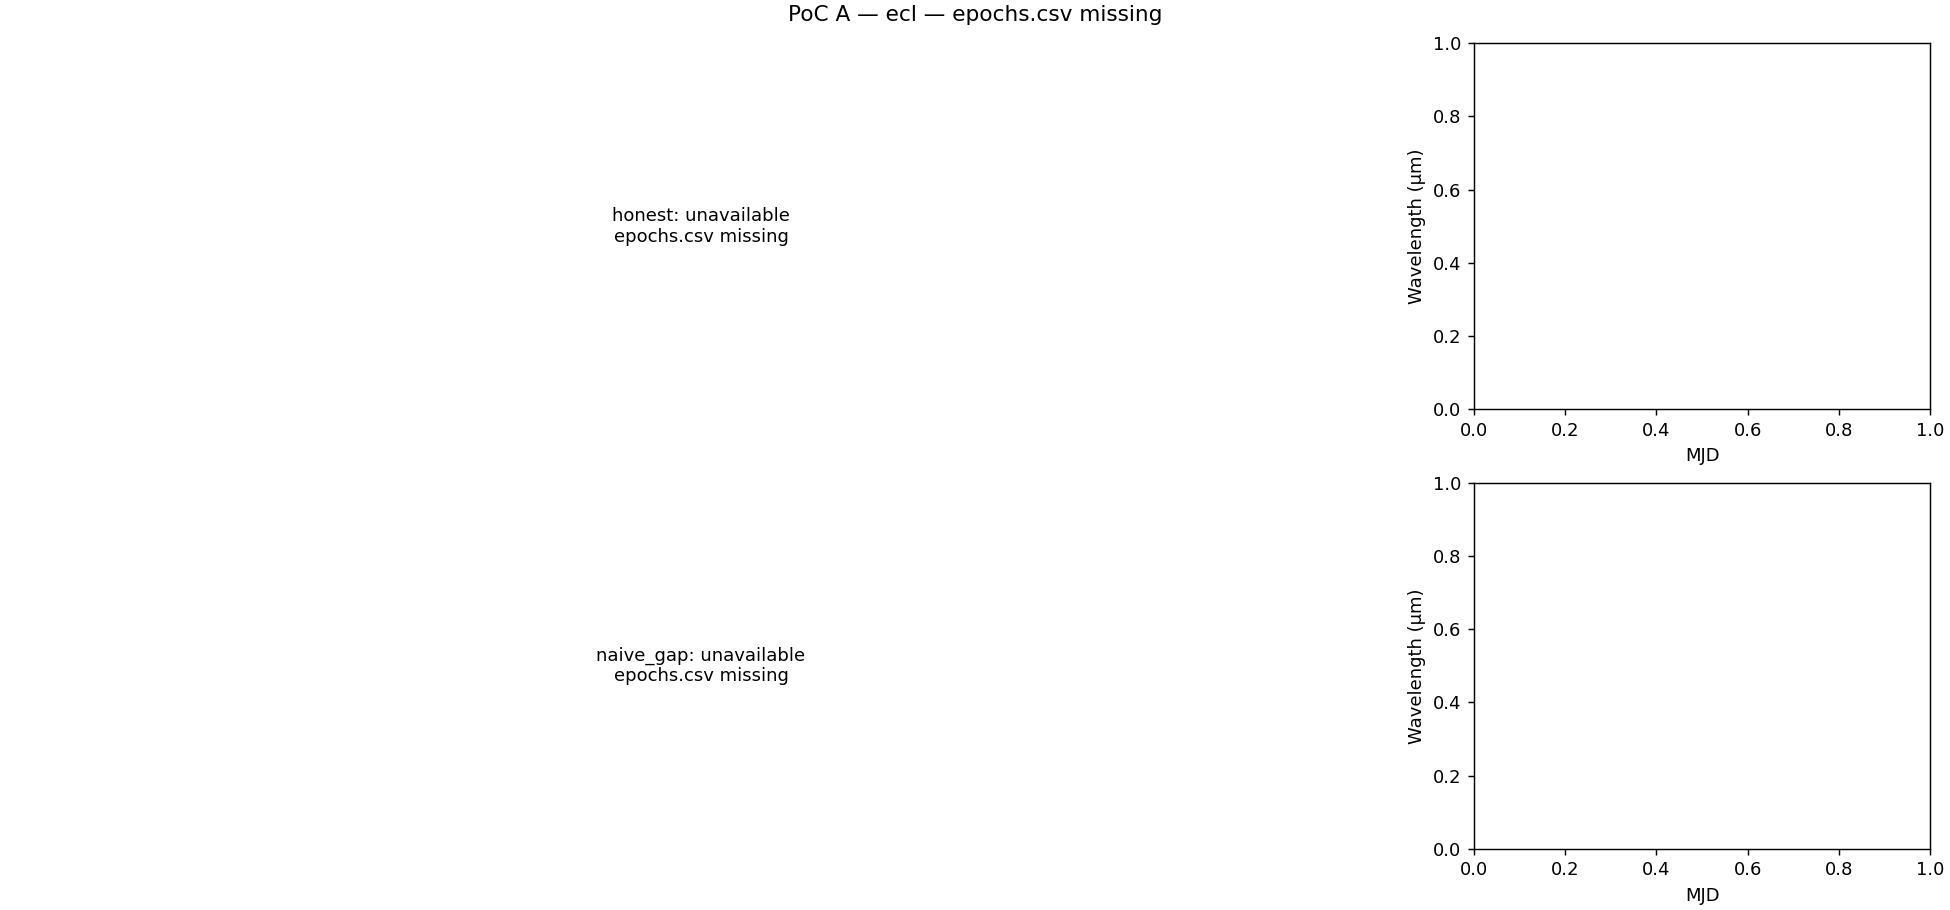
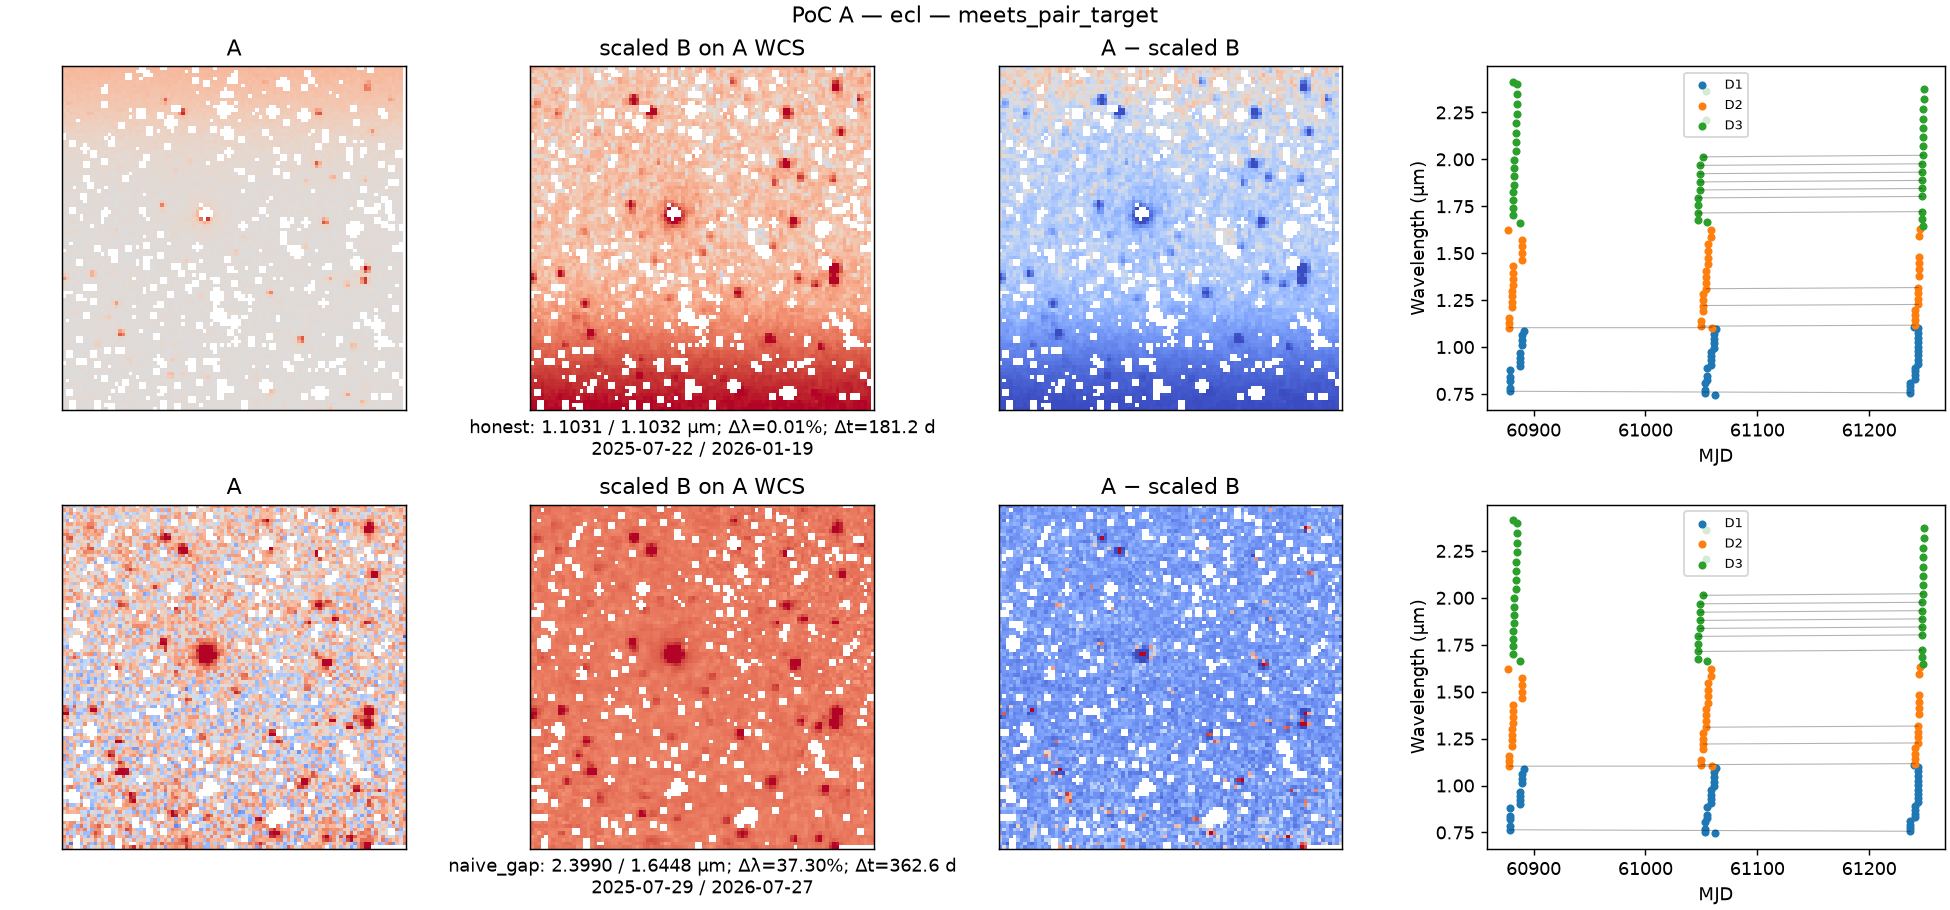
PoC A rerun with ECL; ecl field

diff --git a/docs/EXPERIMENTS.md b/docs/EXPERIMENTS.md
@@ -2,7 +2,7 @@
 
 ## PoC A — Honest Blink
 
-Run: 2026-11-14T10:23:18+00:00. Offline input paths: `data/meta/{m101,nep,ecl}/epochs.csv` and local FITS cutouts; missing inputs are shown in the table.
+Run: 2026-11-14T11:38:32+00:00. Offline input paths: `data/meta/{m101,nep,ecl}/epochs.csv` and local FITS cutouts; missing inputs are shown in the table.
 
 Display passes use gaps >45 days; a single continuous cluster spanning >150 days uses 182.6-day segments from its first MJD. Strict pairs require Δλ ≤2% and Δt ≥150 days; loose pairs allow Δλ ≤5%. Pair counts are selected outputs (cap 12 per field). R uses MAD of the reprojected, masked difference divided by median combined variance noise; B scale is the median positive A/B ratio in the brightest 2% of valid A pixels.
 
@@ -10,13 +10,13 @@ Display passes use gaps >45 days; a single continuous cluster spanning >150 days
 | --- | ---: | ---: | ---: | ---: | ---: | ---: | --- |
 | m101 | 169 | 3 | 12 | 12 | 1.029 | 1.214 | ok |
 | nep | 159 | 3 | 12 | 12 | 0.917 | 0.878 | ok |
-| ecl | 0 | 0 | 0 | 0 | — | — | missing_epochs |
+| ecl | 140 | 3 | 12 | 12 | 1.951 | 0.987 | ok |
 
 H1: **PASS**. Success requires at least 3 strict pairs in at least 2 of 3 fields.
 
 Per-detector selected pair counts (strict/loose, no 12-pair field cap):
 - m101: D1 34/36, D2 50/51, D3 37/40.
 - nep: D1 23/39, D2 19/29, D3 12/26.
-- ecl: none.
+- ecl: D1 38/38, D2 39/39, D3 36/36.
 
-Limitations: ECL has no local epochs.csv; no network or deep-collection search was attempted. Residuals are diagnostic for the selected pairs, not a controlled significance test.
+Limitations: Residuals are diagnostic for the selected pairs, not a controlled significance test.
